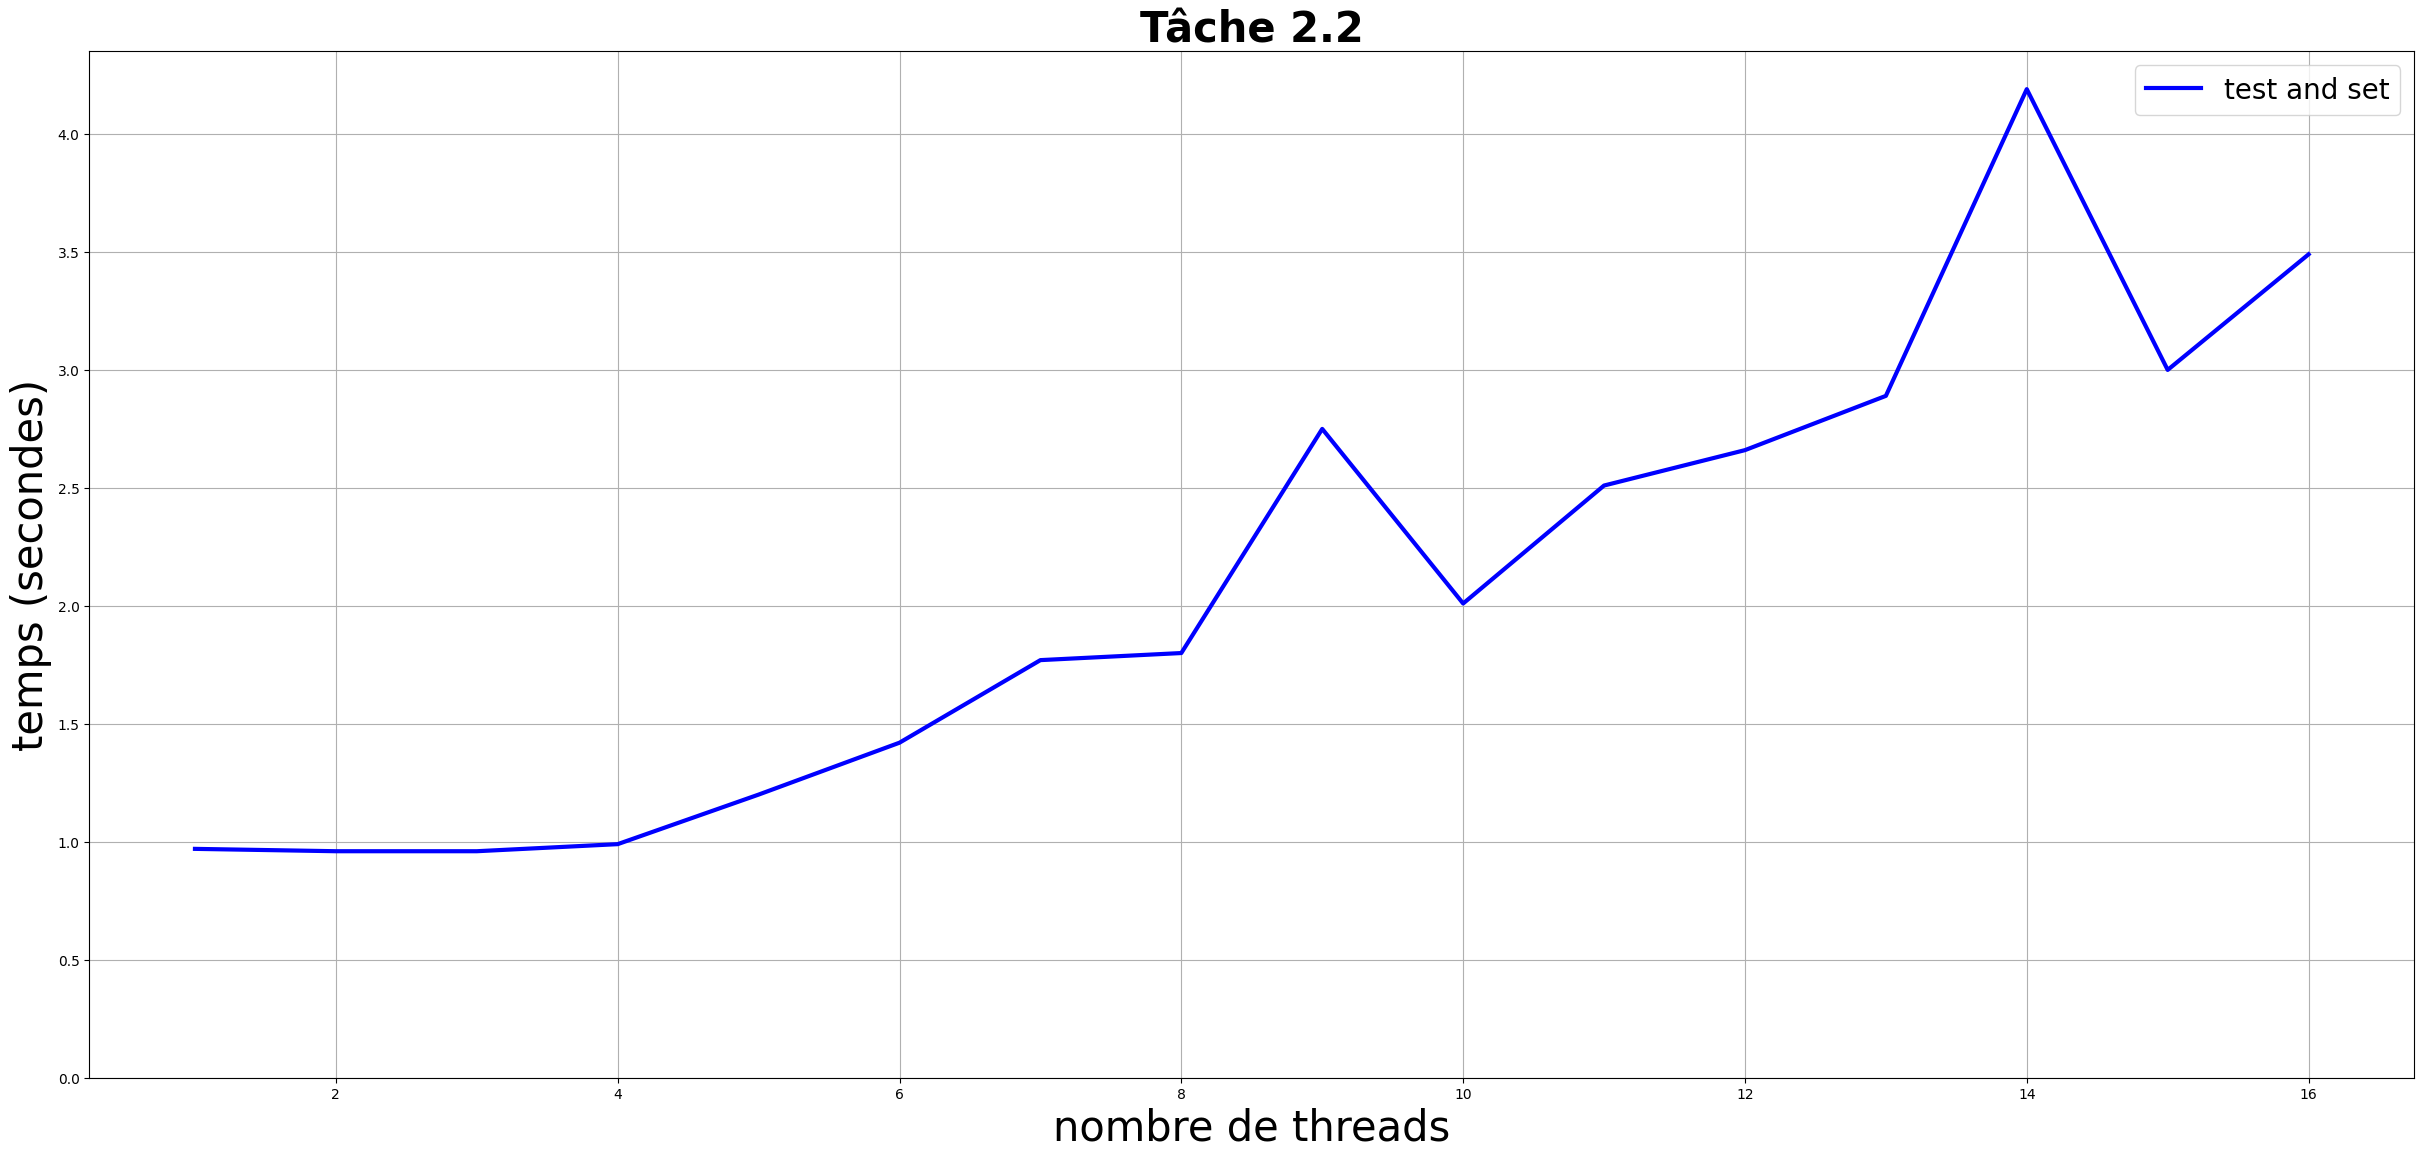
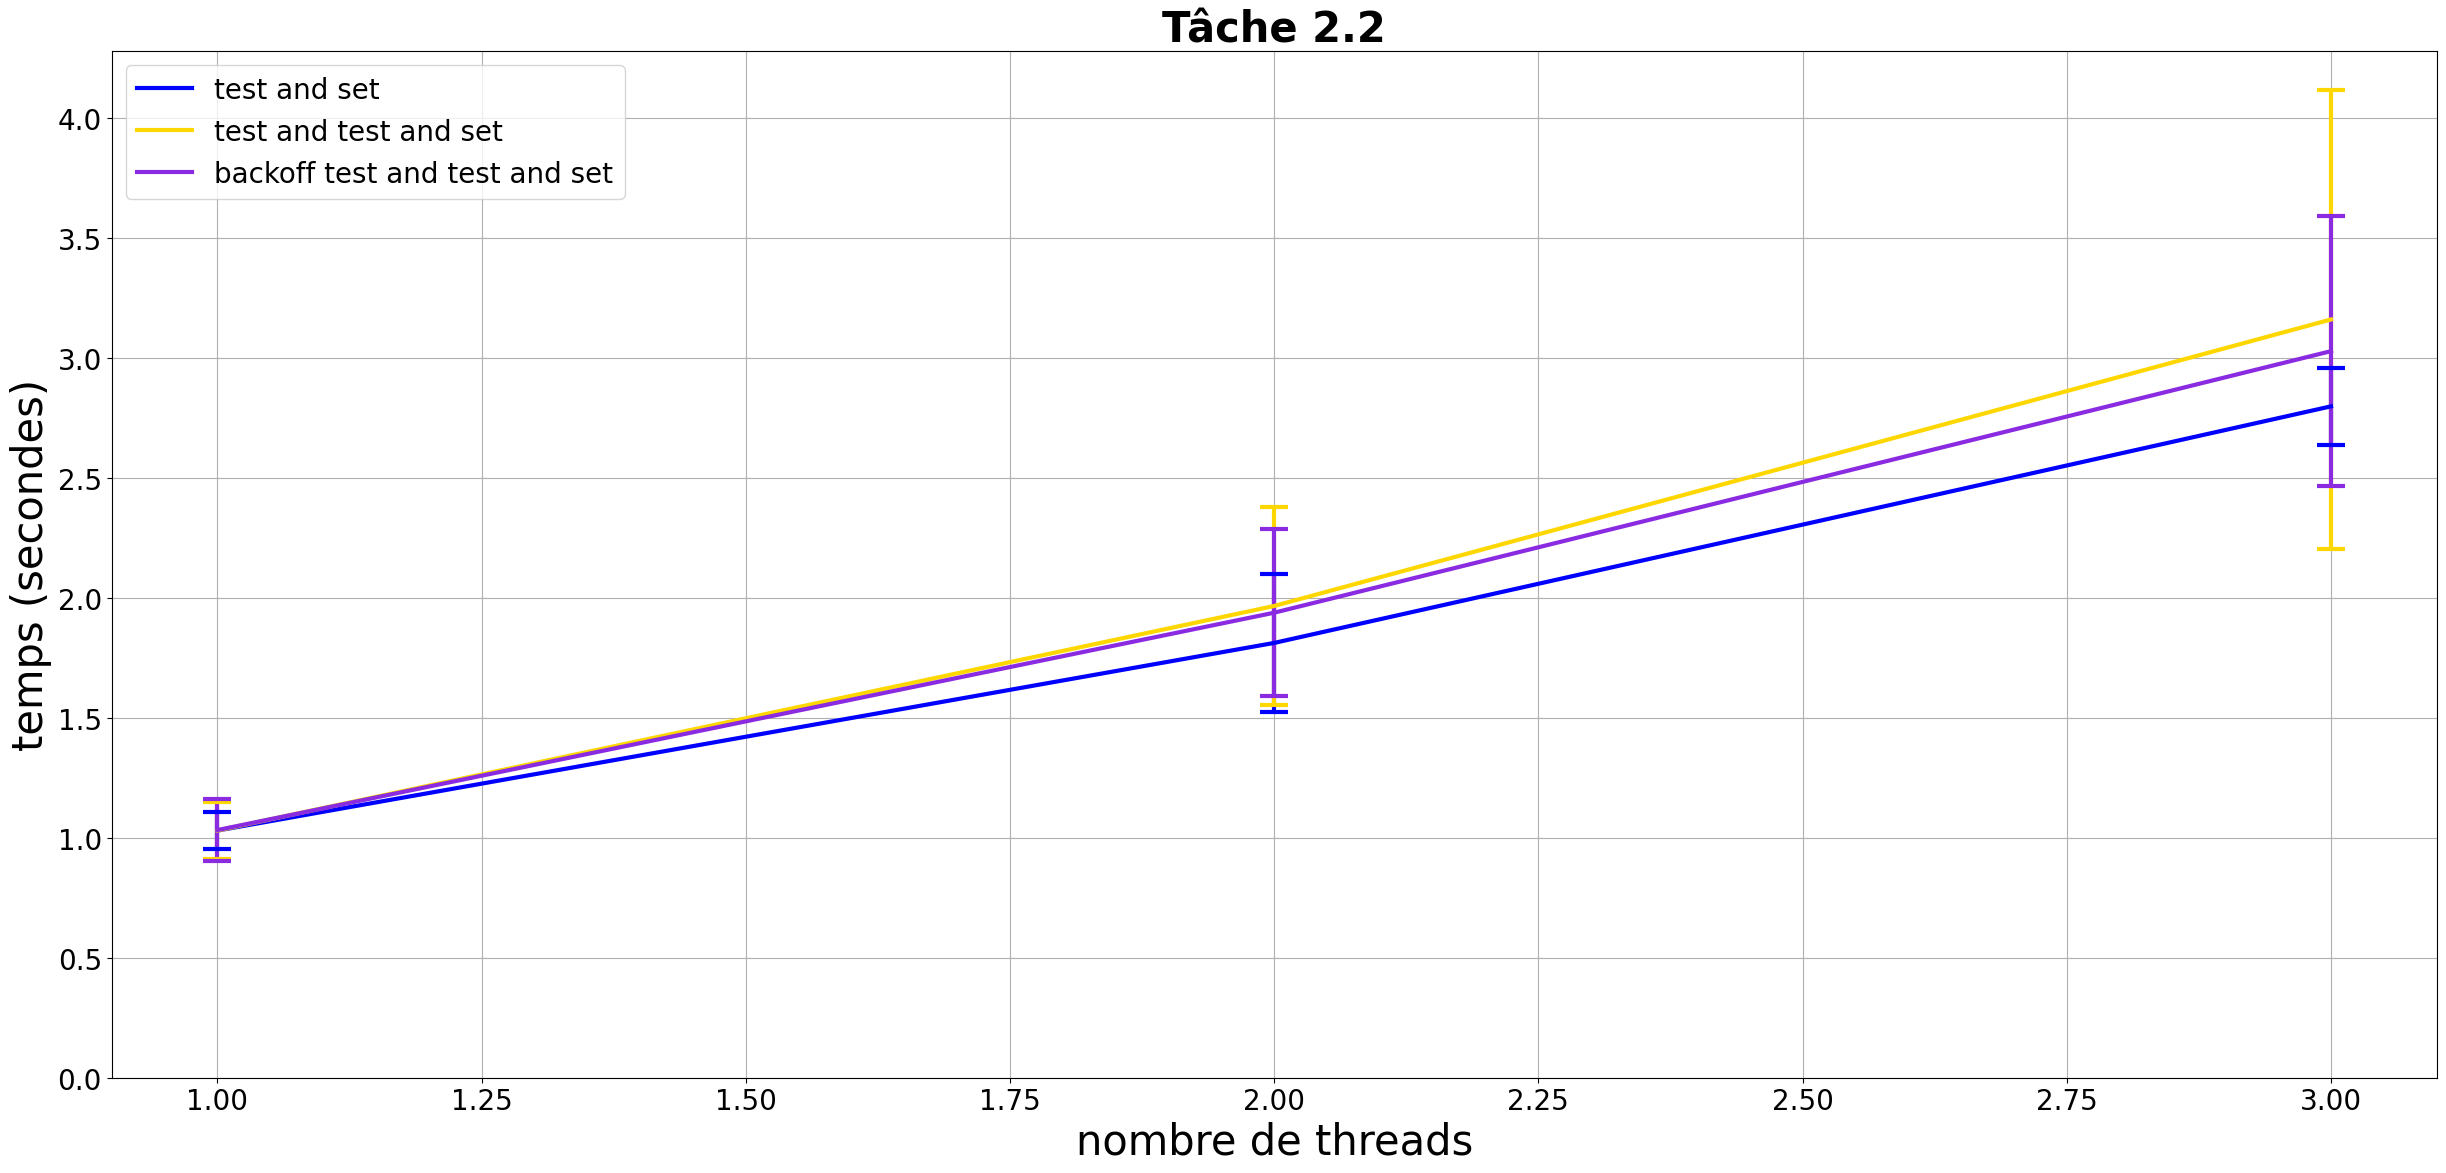
tache 2.2 completed

diff --git a/src/graph2_2.py b/src/graph2_2.py
@@ -1,24 +1,45 @@
 import pandas as pd
 import matplotlib.pyplot as plt
 import numpy as np
+import statistics as stt
 
 #Variable pour définir la résolution du graphe (résolution ~=~ 300dim * 133dim)
 dim = 10
 
+#Valeurs utiles pour différentier les graphes
+leg = ["test and set", "test and test and set", "backoff test and test and set"]
+colors = ["blue", "gold", "blueviolet", "crimson"]
+files = ["philosophes", "prodCons", "readerWriter"]
+
 #Lecture des résultats dans le CSV
-results = pd.read_csv("src/CSV/T2_2.csv")["Time"]
+data_ts = pd.read_csv("src/CSV/Tache2_2/ts.csv")["Time"]
+data_tts = pd.read_csv("src/CSV/Tache2_2/tts.csv")["Time"]
+data_btts = pd.read_csv("src/CSV/Tache2_2/btts.csv")["Time"]
 
 #Réglages du graphe
 plt.figure(figsize=(3*dim, (4/3)*dim))
 plt.title("Tâche 2.2", fontsize=3*dim, fontweight="bold")
 plt.xlabel('nombre de threads', fontsize=3*dim)
 plt.ylabel('temps (secondes)', fontsize=3*dim)
+plt.tick_params(labelsize = 2*dim)
 plt.grid(which='both')
+x = range(1, (len(data_ts)//5)+1)
 
 #Calcul du graphe
-plt.plot(range(1, 17), results, color="blue", label="test and set", linewidth=dim//3)
-plt.ylim(ymin = 0)
+for i, time in enumerate([data_ts, data_tts, data_btts]):
+    means = []
+    stds = [] #Déviations standards
+
+    #Calcul des temps moyens et des déviations standards des résultats par nombre de threads
+    for k in range(len(time)//5):
+        raw = np.array(time[k*5:k*5+5])
+        means.append(sum(raw)/5)
+        stds.append(stt.stdev(raw))
+    plt.plot(x, means, color=colors[i], label=leg[i], linewidth=dim//3)
+    markers, caps, bars = plt.errorbar(x, means, stds, fmt='none', ecolor=colors[i], lw = dim//3, capsize=dim, capthick=dim//3) #Affiche les déviations standards
+plt.tick_params(labelsize = 2*dim)
 plt.legend(fontsize = 2*dim)
+plt.ylim(ymin = 0)
 
 #Sauvegarde du graphe
 plt.savefig("PlotT22", bbox_inches="tight")

diff --git a/src/Tache2_2/btts.c b/src/Tache2_2/btts.c
@@ -1,0 +1,41 @@
+#include <stdio.h>
+#include <stdlib.h>
+#include <pthread.h>
+#include <math.h>
+#include "../backoff_test_and_test_and_set/backoff_test_and_test_and_set.c"
+
+struct args { //Strcuture of the parameteres for the threads
+    int cycle;
+    int id;
+};
+
+void* lock_test(void* params){
+    int id = ((struct args*)params)->id;
+    if(id==-1) printf("OUPS... SOMETHING WENT WRONG!");
+    for(int i=0; i<((struct args*)params)->cycle; i++){
+        mutex_lock(id);
+        while(rand()>RAND_MAX/10000);
+        mutex_unlock(id);
+    }
+    return NULL;
+}
+
+int main(int argc, char const *argv[])
+{
+    int N = atoi(argv[1]);
+    pthread_t threads[N];
+    struct args* params = (struct args *)malloc(sizeof(struct args));
+    params->cycle= round(6400/N);
+    int id=mutex_init();
+    for (int i = 0; i < N; i++)
+    {
+        params->id = id;
+        pthread_create(&threads[i], NULL, &lock_test, (void *)params);
+    }
+    for (int i = 0; i < N; i++)
+    {
+        pthread_join(threads[i], NULL);
+    }
+    mutex_destroy(id);
+    return 0;
+}

diff --git a/src/Tache2_2/ts.c b/src/Tache2_2/ts.c
@@ -1,0 +1,41 @@
+#include <stdio.h>
+#include <stdlib.h>
+#include <pthread.h>
+#include <math.h>
+#include "../test_and_set/test_and_set.c"
+
+struct args { //Strcuture of the parameteres for the threads
+    int cycle;
+    int id;
+};
+
+void* lock_test(void* params){
+    int id = ((struct args*)params)->id;
+    if(id==-1) printf("OUPS... SOMETHING WENT WRONG!");
+    for(int i=0; i<((struct args*)params)->cycle; i++){
+        mutex_lock(id);
+        while(rand()>RAND_MAX/10000);
+        mutex_unlock(id);
+    }
+    return NULL;
+}
+
+int main(int argc, char const *argv[])
+{
+    int N = atoi(argv[1]);
+    pthread_t threads[N];
+    struct args* params = (struct args *)malloc(sizeof(struct args));
+    params->cycle= round(6400/N);
+    int id=mutex_init();
+    for (int i = 0; i < N; i++)
+    {
+        params->id = id;
+        pthread_create(&threads[i], NULL, &lock_test, (void *)params);
+    }
+    for (int i = 0; i < N; i++)
+    {
+        pthread_join(threads[i], NULL);
+    }
+    mutex_destroy(id);
+    return 0;
+}

diff --git a/src/Tache2_2/tts.c b/src/Tache2_2/tts.c
@@ -2,7 +2,7 @@
 #include <stdlib.h>
 #include <pthread.h>
 #include <math.h>
-#include "test_and_test_and_set/test_and_test_and_set.c"
+#include "../test_and_test_and_set/test_and_test_and_set.c"
 
 struct args { //Strcuture of the parameteres for the threads
     int cycle;
